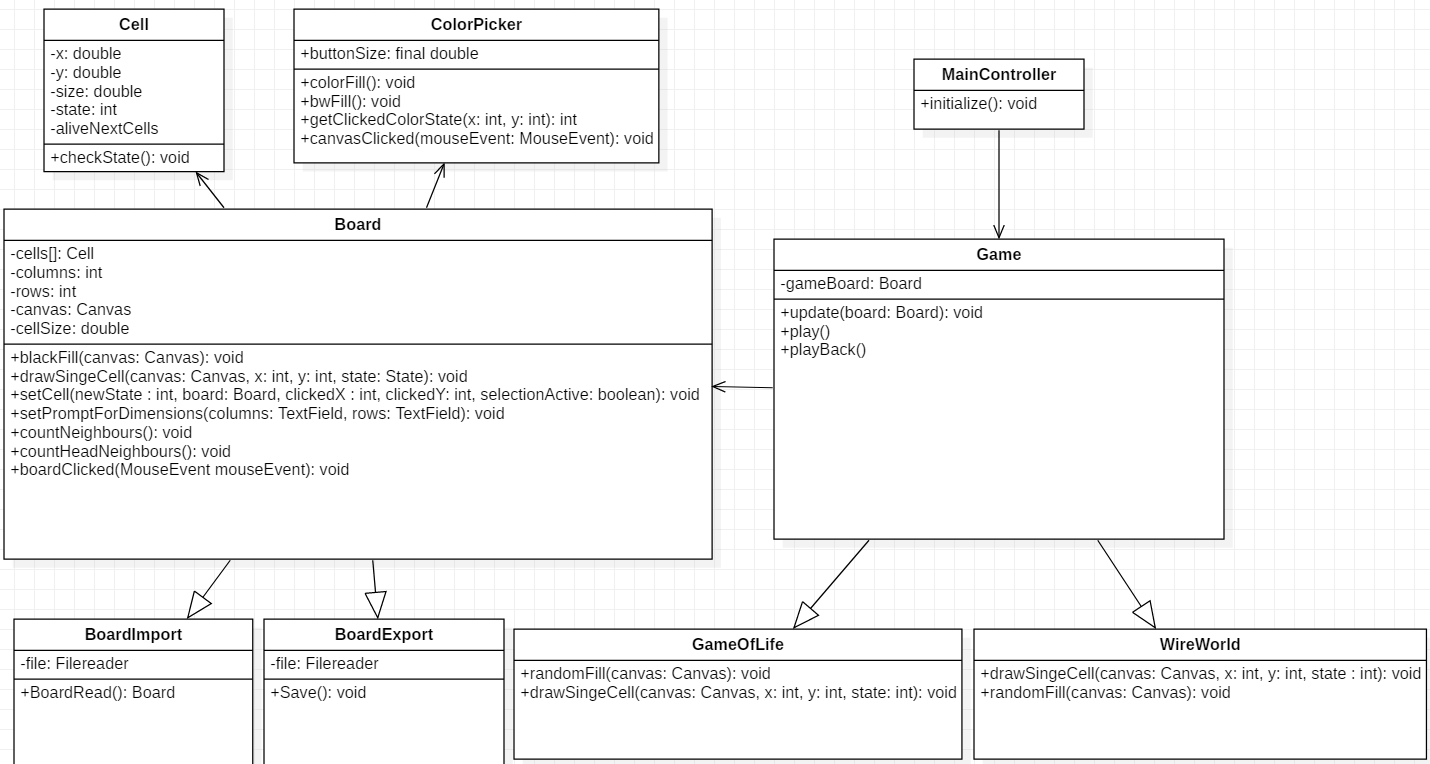
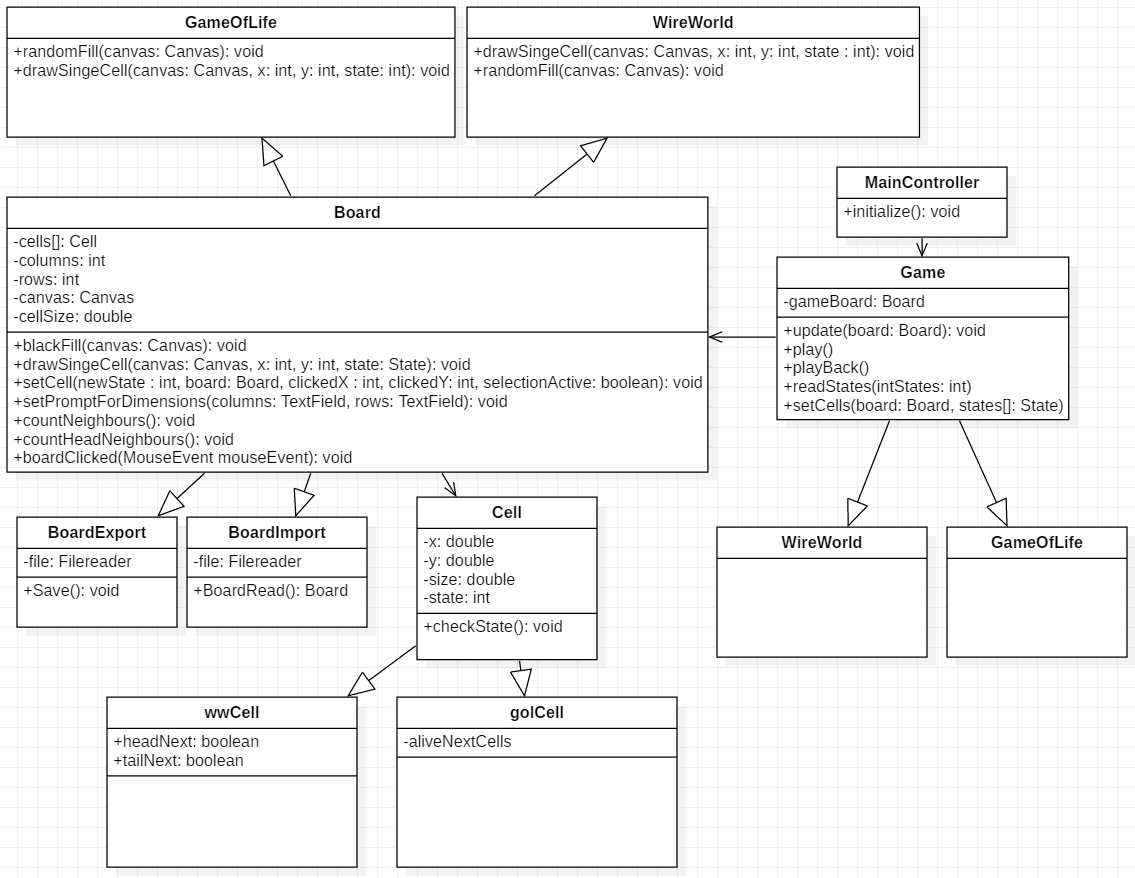
WireWorld działa

diff --git a/AutomatKomórkowy/src/models/WireWorld.java b/AutomatKomórkowy/src/models/WireWorld.java
@@ -14,35 +14,81 @@ public class WireWorld extends  Game {
         int r = board.getRows();
         for(int i = 0; i < r; i++){
             for(int j = 0; j < c;j++){
-                this.cells[i*r+j] = new wwCell(j*board.getCellSize(), i*board.getCellSize(), board.getCellSize(), EMPTY);
+                this.cells[i*c+j] = new wwCell(j*board.getCellSize(), i*board.getCellSize(), board.getCellSize(), EMPTY);
+            }
+        }
+    }
+
+    public void setCells(Cell.State[] states){
+        int c = this.gameBoard.getColumns();
+        int r = this.gameBoard.getRows();
+        for(int i = 0; i < r; i++){
+            for(int j = 0; j < c;j++){
+                this.cells[i*c+j] = new wwCell(j*this.gameBoard.getCellSize(), i*this.gameBoard.getCellSize(), this.gameBoard.getCellSize(), states[i*c+j]);
+            }
+        }
+    }
+
+    public void checkHeadNext(){
+
+        int c = this.gameBoard.getColumns();
+
+        for(int i=0; i < this.numberOfCells; i++){
+            this.cells[i].headsNext = 0;
+            int[] numbersNextCells = new int[]{i-c-1, i-c, i-c+1, i- 1, i+1, i+c-1, i+c, i+c+1};
+            for(int j=0; j<8; j++) {
+                if(numbersNextCells[j] > 0 && numbersNextCells[j] < this.numberOfCells )
+                    if (this.cells[numbersNextCells[j]].getState() == HEAD)
+                        this.cells[i].headsNext++;
             }
         }
     }
 
     @Override
     public void play() {
+        this.checkHeadNext();
 
+        for(int i=0; i <this.numberOfCells; i++){
+            if(this.cells[i].getState() == HEAD){
+                this.cells[i].setState(TAIL);
+                this.cellsStates[i] = TAIL;
+            }
+            else if(this.cells[i].getState() == TAIL){
+                this.cells[i].setState(CONDUCTOR);
+                this.cellsStates[i] = CONDUCTOR;
+            }
+            else if(this.cells[i].getState() == CONDUCTOR){
+                if(this.cells[i].headsNext == 1 || this.cells[i].headsNext == 2) {
+                    this.cells[i].setState(HEAD);
+                    this.cellsStates[i] = HEAD;
+                }
+            }
+        }
+        this.readStatesFromCells();
+        this.gameBoard.draw(this.getCellsStates());
     }
 
     @Override
-    public void readStatesFromCells() {
+    public void readStatesFromCells(){
 
-    }
-   /* public void initCells(Board board, Cell.State[] states){
-        states = new Cell.State[gameBoard.getColumns()*gameBoard.getRows()];
-        int c = board.getColumns();
-        int r = board.getRows();
-        for(int i = 0; i < r; i++){
-            for(int j = 0; j < c;j++){
-                this.cells[i*r+j] = new golCell(j*board.getCellSize(), i*board.getCellSize(), board.getCellSize(), states[i*r+j]);
-            }
+        this.cellsStates = new Cell.State[this.numberOfCells];
+        for(int i = 0; i < this.numberOfCells; i++){
+            if(this.cells[i].getState() == HEAD)
+                this.cellsStates[i] = HEAD;
+            else if(this.cells[i].getState() == TAIL)
+                this.cellsStates[i] = TAIL;
+            else if(this.cells[i].getState() == CONDUCTOR)
+                    this.cellsStates[i] = CONDUCTOR;
+            else if(this.cells[i].getState() == EMPTY)
+                        this.cellsStates[i] = EMPTY;
         }
-    }*/
+    }
 
     @Override
     public void readStates(int[] intStates){
-        this.cellsStates = new Cell.State[this.gameBoard.getColumns()*this.gameBoard.getRows()];
-        for(int i = 0; i < this.gameBoard.getColumns()*this.gameBoard.getRows(); i++){
+        this.cells = new wwCell[this.numberOfCells];
+        this.cellsStates = new Cell.State[this.numberOfCells];
+        for(int i = 0; i < this.numberOfCells; i++){
             if(intStates[i] == 0)
                 this.cellsStates[i] = EMPTY;
             else if(intStates[i] == 1)
@@ -52,6 +98,6 @@ public class WireWorld extends  Game {
              else if(intStates[i] == 3)
                 this.cellsStates[i] = CONDUCTOR;
         }
+        this.setCells(this.cellsStates);
     }
-
 }

diff --git a/AutomatKomórkowy/src/view/WireWorldBoard.java b/AutomatKomórkowy/src/view/WireWorldBoard.java
@@ -12,8 +12,6 @@ import static models.Cell.State.*;
 
 public class WireWorldBoard extends Board {
 
-    private Board gameBoard;
-
     public WireWorldBoard(int columns, int rows, Canvas canvas) {
         super(columns, rows, canvas);
     }
@@ -37,9 +35,8 @@ public class WireWorldBoard extends Board {
                 color = Color.RED;
                 break;
         }
-
         graphicsContext.setFill(color);
-        graphicsContext.fillRect(x*gameBoard.getCellSize(), y*getCellSize(), getCellSize(), getCellSize());
+        graphicsContext.fillRect(x*this.getCellSize(), y*this.getCellSize(), this.getCellSize(), this.getCellSize());
     }
 
     @Override
@@ -50,13 +47,13 @@ public class WireWorldBoard extends Board {
         int c = this.getColumns();
         for (int i = 0; i < r; i++) {
             for (int j = 0; j < c; j++) {
-                if (cellState[i*r+j] == TAIL)
+                if (cellState[i*c+j] == TAIL)
                     canvasGC.setFill(Color.RED);
-                else if (cellState[i*r+j] == HEAD)
+                else if (cellState[i*c+j] == HEAD)
                     canvasGC.setFill(Color.BLUE);
-                else if (cellState[i*r+j] == CONDUCTOR)
+                else if (cellState[i*c+j] == CONDUCTOR)
                     canvasGC.setFill(Color.YELLOW);
-                else if (cellState[i*r+j] == EMPTY)
+                else if (cellState[i*c+j] == EMPTY)
                     canvasGC.setFill(Color.BLACK);
                 canvasGC.fillRect(j * this.getCellSize(), this.getCellSize() * i, this.getCellSize(), this.getCellSize());
             }
@@ -64,33 +61,13 @@ public class WireWorldBoard extends Board {
     }
     @Override
     public void randomFill(Game game) {
-        int numberOfCells = this.getColumns()*this.getRows();
-        int [] randomIntStates = new int[numberOfCells];
-        for(int k = 0; k < numberOfCells; k++){
-            Random generator = new Random();
-            randomIntStates[k] = generator.nextInt()%4;
+        int [] randomIntStates = new int[game.getNumberOfCells()];
+        Random generator = new Random();
+        for(int k = 0; k < game.getNumberOfCells(); k++){
+            randomIntStates[k] = Math.abs(generator.nextInt()%4);
         }
         game.readStates(randomIntStates);
+        game.readStatesFromCells();
         this.draw(game.getCellsStates());
     }
-/*
-    @Override
-    public void randomFill(Game game) {
-        GraphicsContext wwCanvasGC = game.gameBoard.getCanvas().getGraphicsContext2D();
-        Random wwGenerator = new Random();
-        for (int i = 0; i < this.getRows(); i++) {
-            for (int j = 0; j < this.getColumns(); j++) {
-                if (wwGenerator.nextInt() % 4 == 0)
-                    wwCanvasGC.setFill(Color.RED);
-                else if (wwGenerator.nextInt() % 4 == 1)
-                    wwCanvasGC.setFill(Color.YELLOW);
-                else if (wwGenerator.nextInt() % 4 == 2)
-                    wwCanvasGC.setFill(Color.BLUE);
-                else
-                    wwCanvasGC.setFill(Color.BLACK);
-                wwCanvasGC.fillRect(j * this.getCellSize(), this.getCellSize() * i, this.getCellSize(), this.getCellSize());
-            }
-        }
-    }
-    */
 }

diff --git a/AutomatKomórkowy/src/view/GameOfLifeBoard.java b/AutomatKomórkowy/src/view/GameOfLifeBoard.java
@@ -19,7 +19,6 @@ public class GameOfLifeBoard extends Board {
     @Override
     public void draw(Cell.State[] cellState){
         try{
-
             GraphicsContext canvasGC = this.getCanvas().getGraphicsContext2D();
             canvasGC.setFill(Color.BLACK);
             int r = this.getRows();
@@ -40,10 +39,9 @@ public class GameOfLifeBoard extends Board {
 
     @Override
     public void randomFill(Game game) {
-        int numberOfCells = this.getColumns()*this.getRows();
-        int [] randomIntStates = new int[numberOfCells];
+        int [] randomIntStates = new int[game.getNumberOfCells()];
         Random generator = new Random();
-        for(int k = 0; k < numberOfCells; k++){
+        for(int k = 0; k < game.getNumberOfCells(); k++){
             randomIntStates[k] = Math.abs(generator.nextInt()%2);
         }
         game.readStates(randomIntStates);

diff --git a/AutomatKomórkowy/src/models/GameOfLife.java b/AutomatKomórkowy/src/models/GameOfLife.java
@@ -24,7 +24,7 @@ public class GameOfLife extends Game {
         }
 
     }
-
+    @Override
     public void setCells(Cell.State[] states){
         int c = this.gameBoard.getColumns();
         int r = this.gameBoard.getRows();
@@ -74,9 +74,7 @@ public class GameOfLife extends Game {
             for(int j=0; j<8; j++) {
                 if(numbersNextCells[j] > 0 && numbersNextCells[j] < this.numberOfCells )
                     if (this.cells[numbersNextCells[j]].getState() == ALIVE)
-                    {
                         this.cells[i].aliveNextCells++;
-                    }
             }
         }
     }

diff --git a/AutomatKomórkowy/src/controllers/MainController.java b/AutomatKomórkowy/src/controllers/MainController.java
@@ -79,6 +79,7 @@ public class MainController {
         });
         wwBoardReset.setOnAction(e -> wwBoard.blackFill(wwCanvas));
         wwRandomFill.setOnAction(e -> wwBoard.randomFill(WireWorld));
+        wwNextGeneration.setOnAction(e -> WireWorld.play());
 
 
         //___________________________GameOfLife_______________________________________

diff --git a/AutomatKomórkowy/src/models/Game.java b/AutomatKomórkowy/src/models/Game.java
@@ -43,6 +43,7 @@ public abstract class Game {
     //abstract methods
     public abstract void readStates(int[] intStates);
     public abstract void readStatesFromCells();
+    public abstract void setCells(Cell.State[] states);
 
     //public Cell[] getCells() { return cells; }
     //public void setCells(Cell[] cells) { this.cells = cells; }

diff --git a/AutomatKomórkowy/src/models/wwCell.java b/AutomatKomórkowy/src/models/wwCell.java
@@ -3,6 +3,7 @@ package models;
 public class wwCell extends Cell {
 
 
+    protected  int headsNext;
     public wwCell(double x, double y, double size, State state) {
         super(x, y, size, state);
     }

diff --git a/AutomatKomórkowy/src/Main.java b/AutomatKomórkowy/src/Main.java
@@ -19,7 +19,7 @@ public class Main extends Application {
 	}
 
 	public static void main(String[] args) {
-		
+
 		launch(args);
 	}
 }
